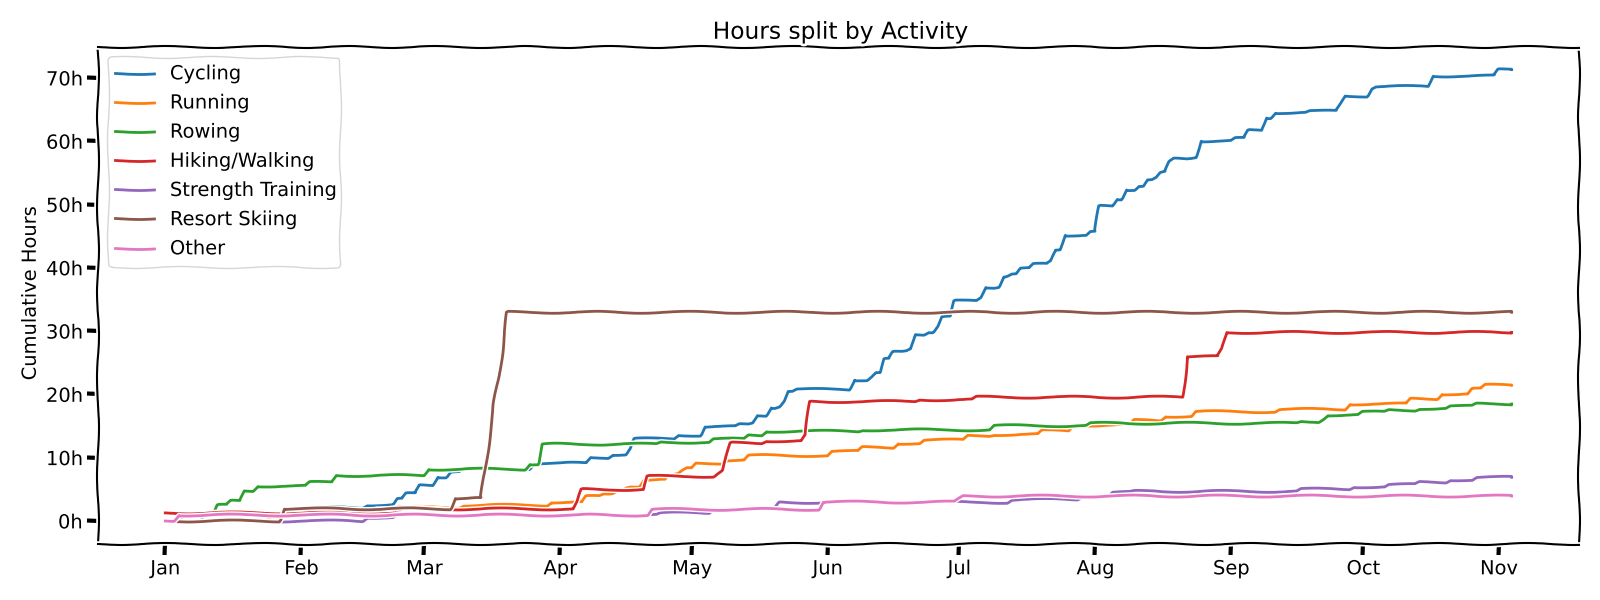
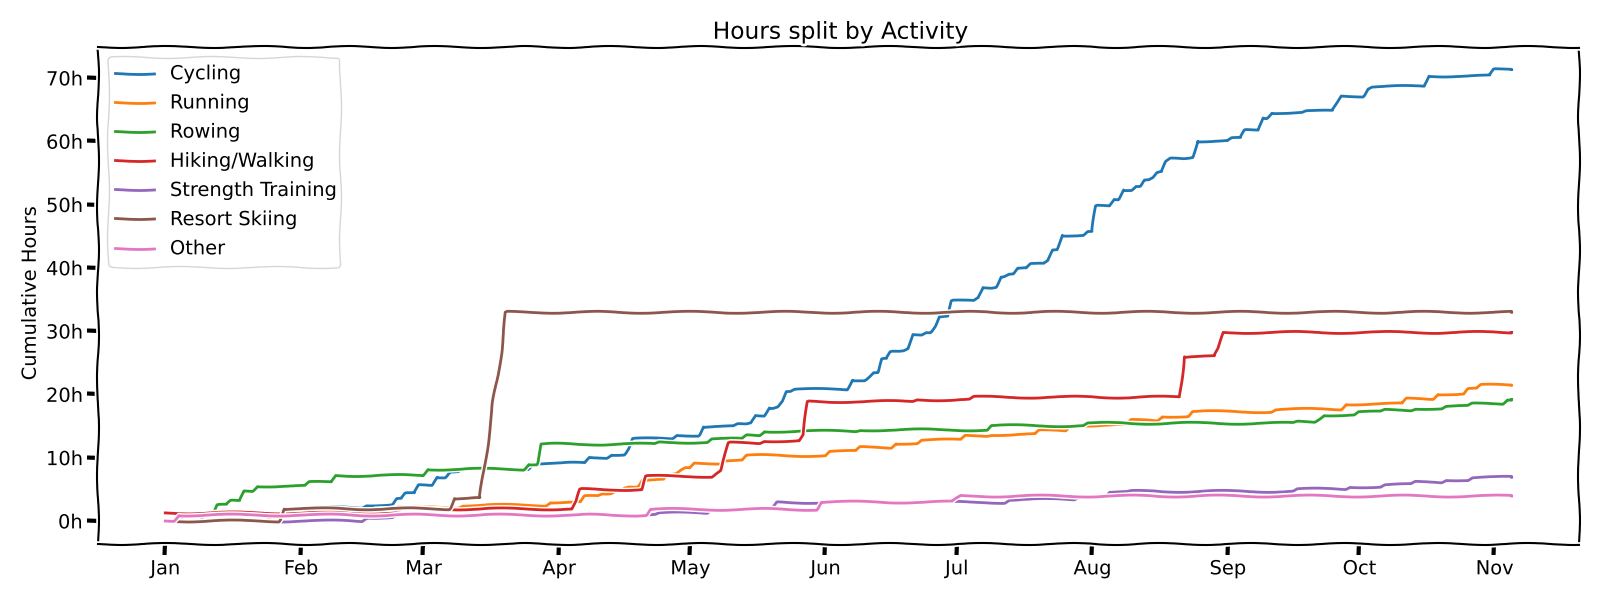
Auto-update Garmin stats and graphs

diff --git a/README.md b/README.md
@@ -1,7 +1,7 @@
 # Hunter Annan
 
 <!-- GARMIN_STATS:START -->
-I last went for a bike ride on 1 November 2026.
+I last did some indoor rowing yesterday.
 <!-- GARMIN_STATS:END -->
 
 ## Activities I've logged so far this year
